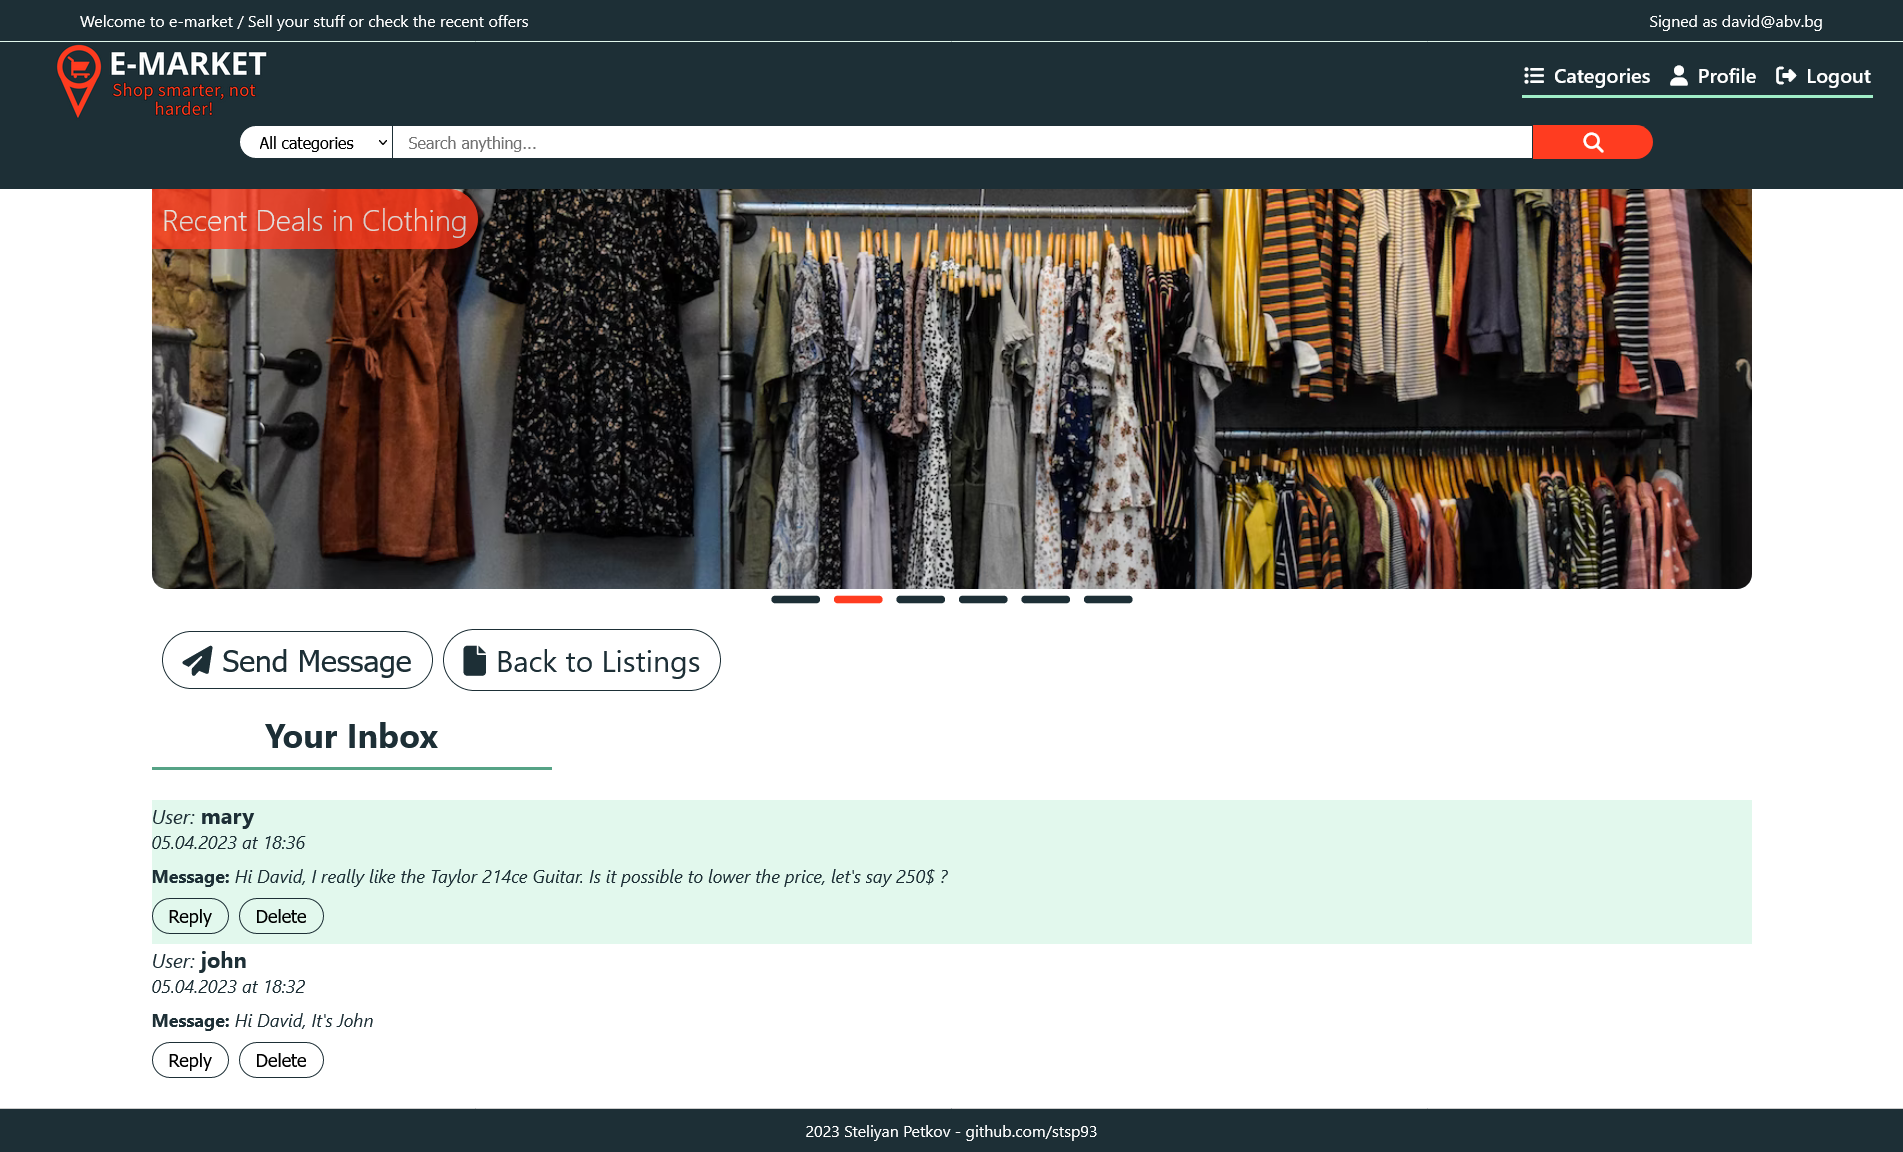
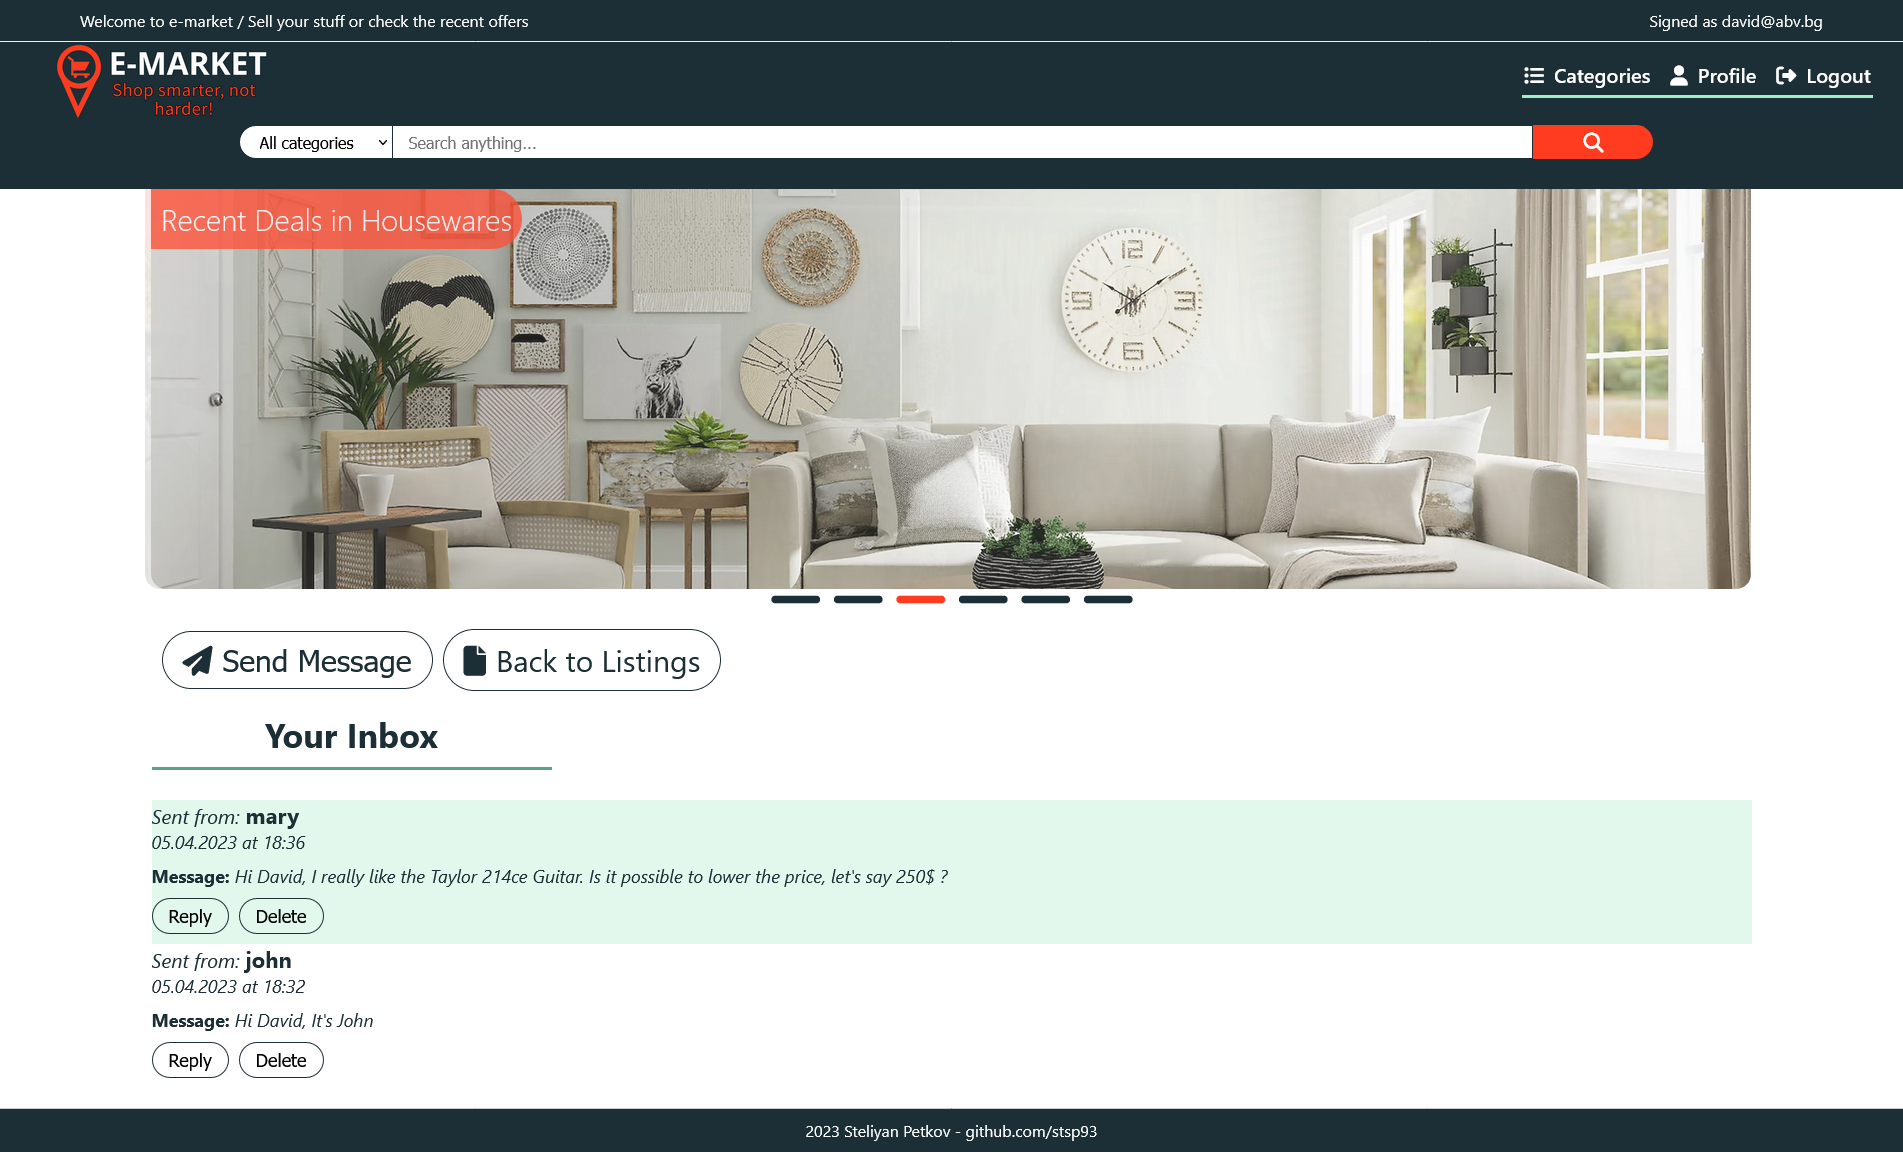
messages change

Changed region(s): [[0.062, 0.1562, 0.9301, 0.5312], [0.093, 0.8125, 0.155, 0.8438], [0.093, 0.6875, 0.155, 0.7188]]

diff --git a/src/componets/Profile/Messages/Message/Message.js b/src/componets/Profile/Messages/Message/Message.js
@@ -29,7 +29,7 @@ export default function Message({username, reply, date, _id, removeComment}) {
     return (
         <li className="message">
             <div className="message-content">
-                <h3 className="message-username"><em>User:</em> {username}</h3>
+                <h3 className="message-username"><em>Sent from:</em> {username}</h3>
                 <p className="message-text"><em>{formatDate(date)}</em></p>
                 <p className="message-text"><strong>Message:</strong> <em>{reply}</em></p>
                 <div className="message-buttons action-buttons">
